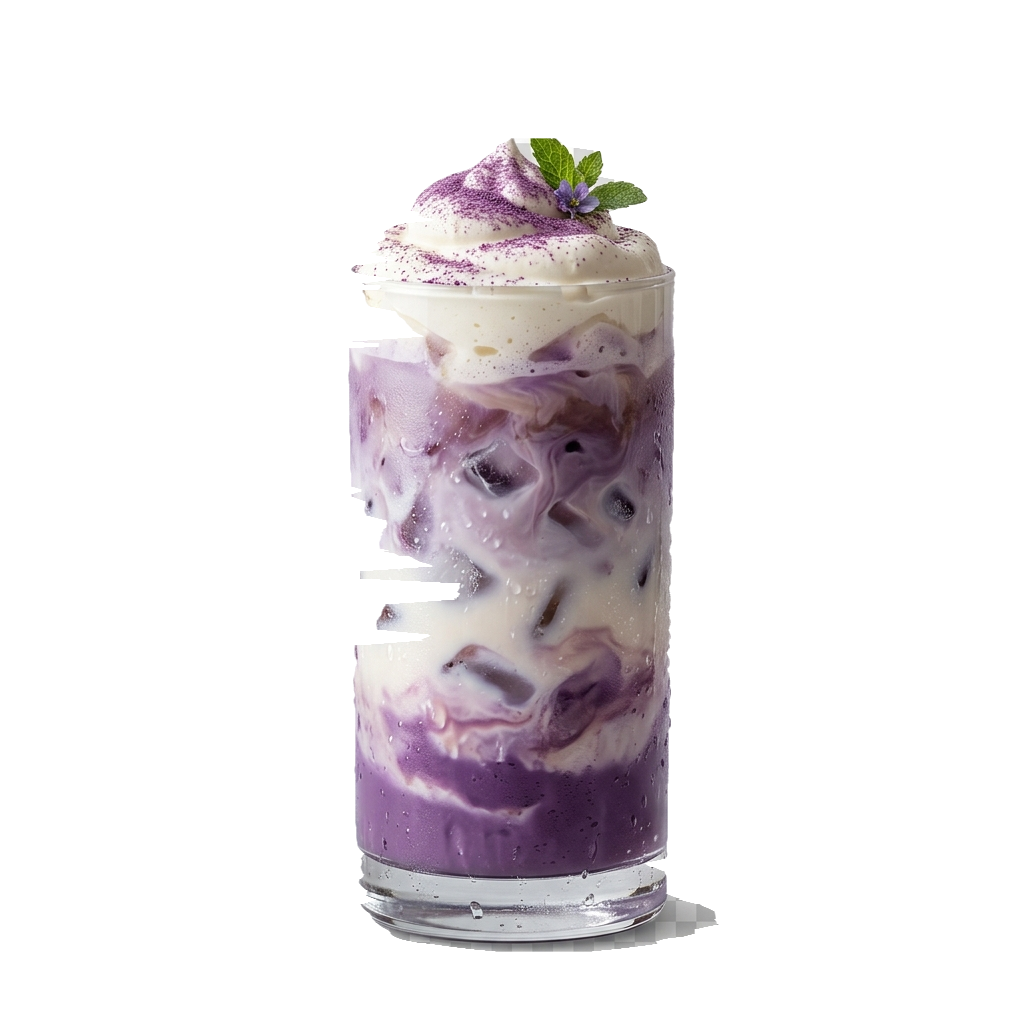
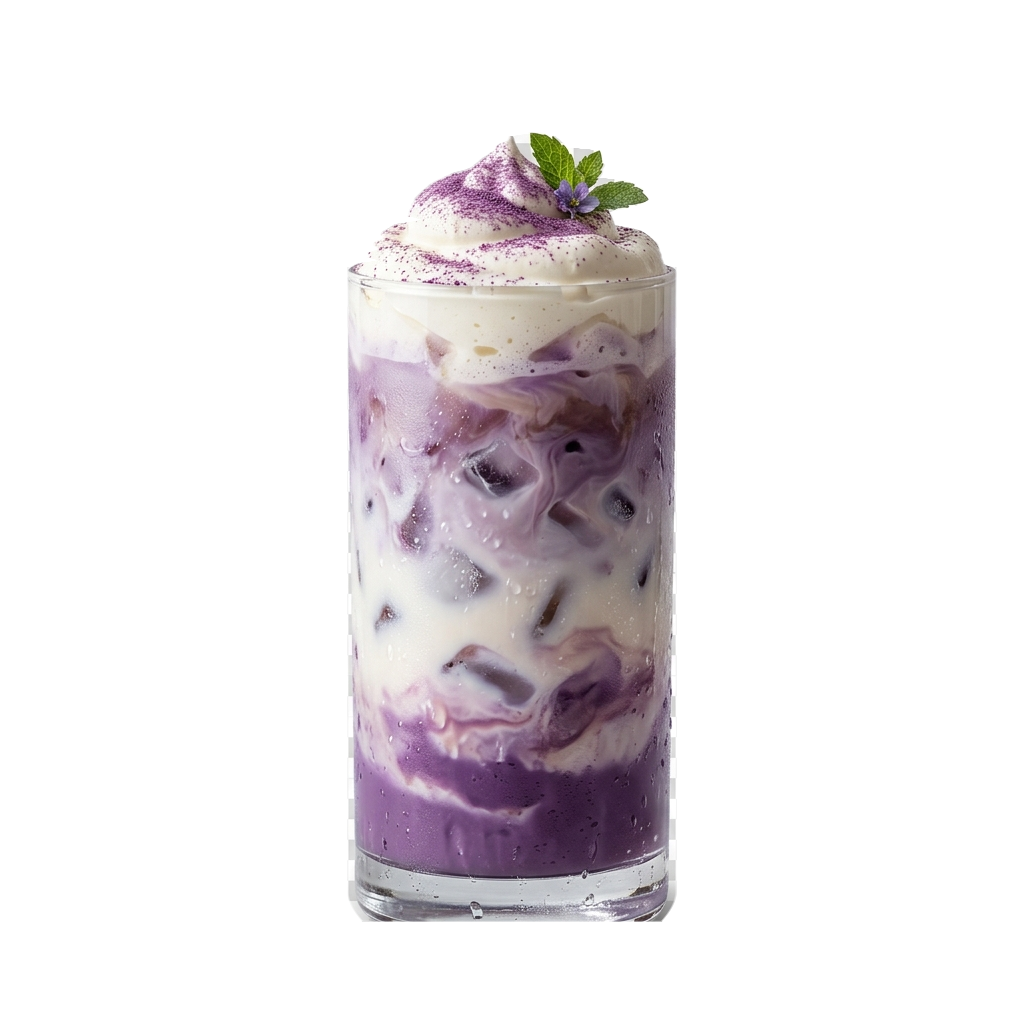
feat(editorial): use real ube drink image with master cutout in Custard Ube section

diff --git a/scripts/process_ube.js b/scripts/process_ube.js
@@ -18,65 +18,124 @@ async function processImage() {
   const height = info.height;
   const channels = info.channels;
 
+  const leftContour = new Float32Array(height);
+  const rightContour = new Float32Array(height);
+
+  const topY = 132;
+  const glassRimY = 267;
+  const glassBaseStartY = 892;
+  const glassBottomY = 921;
+
+  for (let y = 0; y < height; y++) {
+    if (y < topY || y > glassBottomY) {
+      leftContour[y] = 1000;
+      rightContour[y] = -1000;
+      continue;
+    }
+
+    if (y >= glassRimY && y <= glassBaseStartY) {
+      leftContour[y] = 347.5;
+      rightContour[y] = 675.5;
+    } else if (y >= glassBaseStartY) {
+      const p = (y - glassBaseStartY) / (glassBottomY - glassBaseStartY);
+      const inset = Math.pow(p, 1.8) * 15.0;
+      leftContour[y] = 347.5 + inset;
+      rightContour[y] = 675.5 - inset;
+    } else {
+      // Top foam, mint leaf, flower (y from 132 to 267)
+      let lx = -1;
+      for (let x = 340; x < 550; x++) {
+        const idx = (y * width + x) * channels;
+        const r = data[idx], g = data[idx + 1], b = data[idx + 2];
+        const diff = Math.max(Math.abs(r - g), Math.abs(r - b), Math.abs(g - b));
+        const avg = (r + g + b) / 3;
+
+        if (diff >= 7 || avg < 185) {
+          lx = x;
+          break;
+        }
+      }
+
+      let rx = -1;
+      for (let x = 680; x >= 500; x--) {
+        const idx = (y * width + x) * channels;
+        const r = data[idx], g = data[idx + 1], b = data[idx + 2];
+        const diff = Math.max(Math.abs(r - g), Math.abs(r - b), Math.abs(g - b));
+        const avg = (r + g + b) / 3;
+
+        if (diff >= 7 || avg < 185) {
+          rx = x;
+          break;
+        }
+      }
+
+      if (lx === -1 || rx === -1 || lx >= rx) {
+        leftContour[y] = 1000;
+        rightContour[y] = -1000;
+      } else {
+        leftContour[y] = Math.max(347.5, lx);
+        rightContour[y] = Math.min(675.5, rx);
+      }
+    }
+  }
+
+  // Smooth top contour slightly for clean silhouette
+  const smoothLeft = new Float32Array(height);
+  const smoothRight = new Float32Array(height);
+
+  for (let y = 0; y < height; y++) {
+    if (y >= glassRimY && y <= glassBaseStartY) {
+      smoothLeft[y] = leftContour[y];
+      smoothRight[y] = rightContour[y];
+    } else if (y >= topY && y <= glassBottomY && leftContour[y] <= rightContour[y]) {
+      let sumL = 0, sumR = 0, count = 0;
+      for (let dy = -1; dy <= 1; dy++) {
+        const ny = y + dy;
+        if (ny >= topY && ny <= glassBottomY && leftContour[ny] <= rightContour[ny]) {
+          sumL += leftContour[ny];
+          sumR += rightContour[ny];
+          count++;
+        }
+      }
+      smoothLeft[y] = count > 0 ? sumL / count : leftContour[y];
+      smoothRight[y] = count > 0 ? sumR / count : rightContour[y];
+    } else {
+      smoothLeft[y] = 1000;
+      smoothRight[y] = -1000;
+    }
+  }
+
   const rgba = Buffer.alloc(width * height * 4);
 
-  for (let i = 0; i < width * height; i++) {
-    rgba[i * 4 + 0] = data[i * channels + 0];
-    rgba[i * 4 + 1] = data[i * channels + 1];
-    rgba[i * 4 + 2] = data[i * channels + 2];
-    rgba[i * 4 + 3] = 255;
-  }
-
-  function isCheckerboard(idx) {
-    const r = rgba[idx * 4 + 0];
-    const g = rgba[idx * 4 + 1];
-    const b = rgba[idx * 4 + 2];
-    const maxDiff = Math.max(Math.abs(r - g), Math.abs(r - b), Math.abs(g - b));
-    const avg = (r + g + b) / 3;
-    return maxDiff < 20 && avg > 130;
-  }
-
-  const visited = new Uint8Array(width * height);
-  const queue = [];
-
-  for (let x = 0; x < width; x++) {
-    queue.push(0 * width + x);
-    queue.push((height - 1) * width + x);
-  }
   for (let y = 0; y < height; y++) {
-    queue.push(y * width + 0);
-    queue.push(y * width + (width - 1));
-  }
+    const minX = smoothLeft[y];
+    const maxX = smoothRight[y];
 
-  for (const idx of queue) {
-    visited[idx] = 1;
-  }
+    for (let x = 0; x < width; x++) {
+      const srcIdx = (y * width + x) * channels;
+      const destIdx = (y * width + x) * 4;
 
-  let head = 0;
-  while (head < queue.length) {
-    const curr = queue[head++];
-    const cx = curr % width;
-    const cy = Math.floor(curr / width);
+      rgba[destIdx + 0] = data[srcIdx + 0];
+      rgba[destIdx + 1] = data[srcIdx + 1];
+      rgba[destIdx + 2] = data[srcIdx + 2];
 
-    if (isCheckerboard(curr)) {
-      rgba[curr * 4 + 3] = 0;
+      if (y < topY || y > glassBottomY || x < minX - 1.2 || x > maxX + 1.2 || minX >= maxX) {
+        rgba[destIdx + 3] = 0;
+      } else {
+        const distL = x - minX;
+        const distR = maxX - x;
+        const distT = y - topY;
+        const distB = glassBottomY - y;
+        const minDist = Math.min(distL, distR, distT, distB);
 
-      const neighbors = [
-        [cx + 1, cy],
-        [cx - 1, cy],
-        [cx, cy + 1],
-        [cx, cy - 1],
-      ];
-
-      for (const [nx, ny] of neighbors) {
-        if (nx >= 0 && nx < width && ny >= 0 && ny < height) {
-          const nidx = ny * width + nx;
-          if (!visited[nidx]) {
-            visited[nidx] = 1;
-            if (isCheckerboard(nidx)) {
-              queue.push(nidx);
-            }
-          }
+        if (minDist < 0) {
+          const a = Math.max(0, Math.min(1, 1 + minDist / 1.2));
+          rgba[destIdx + 3] = Math.round(a * 128);
+        } else if (minDist < 1.2) {
+          const a = 0.5 + (minDist / 1.2) * 0.5;
+          rgba[destIdx + 3] = Math.round(a * 255);
+        } else {
+          rgba[destIdx + 3] = 255;
         }
       }
     }
@@ -92,7 +151,7 @@ async function processImage() {
     .png()
     .toFile(outputPath);
 
-  console.log('Successfully created transparent PNG:', outputPath);
+  console.log('Successfully created ultra-crisp transparent PNG:', outputPath);
 }
 
 processImage().catch(console.error);
